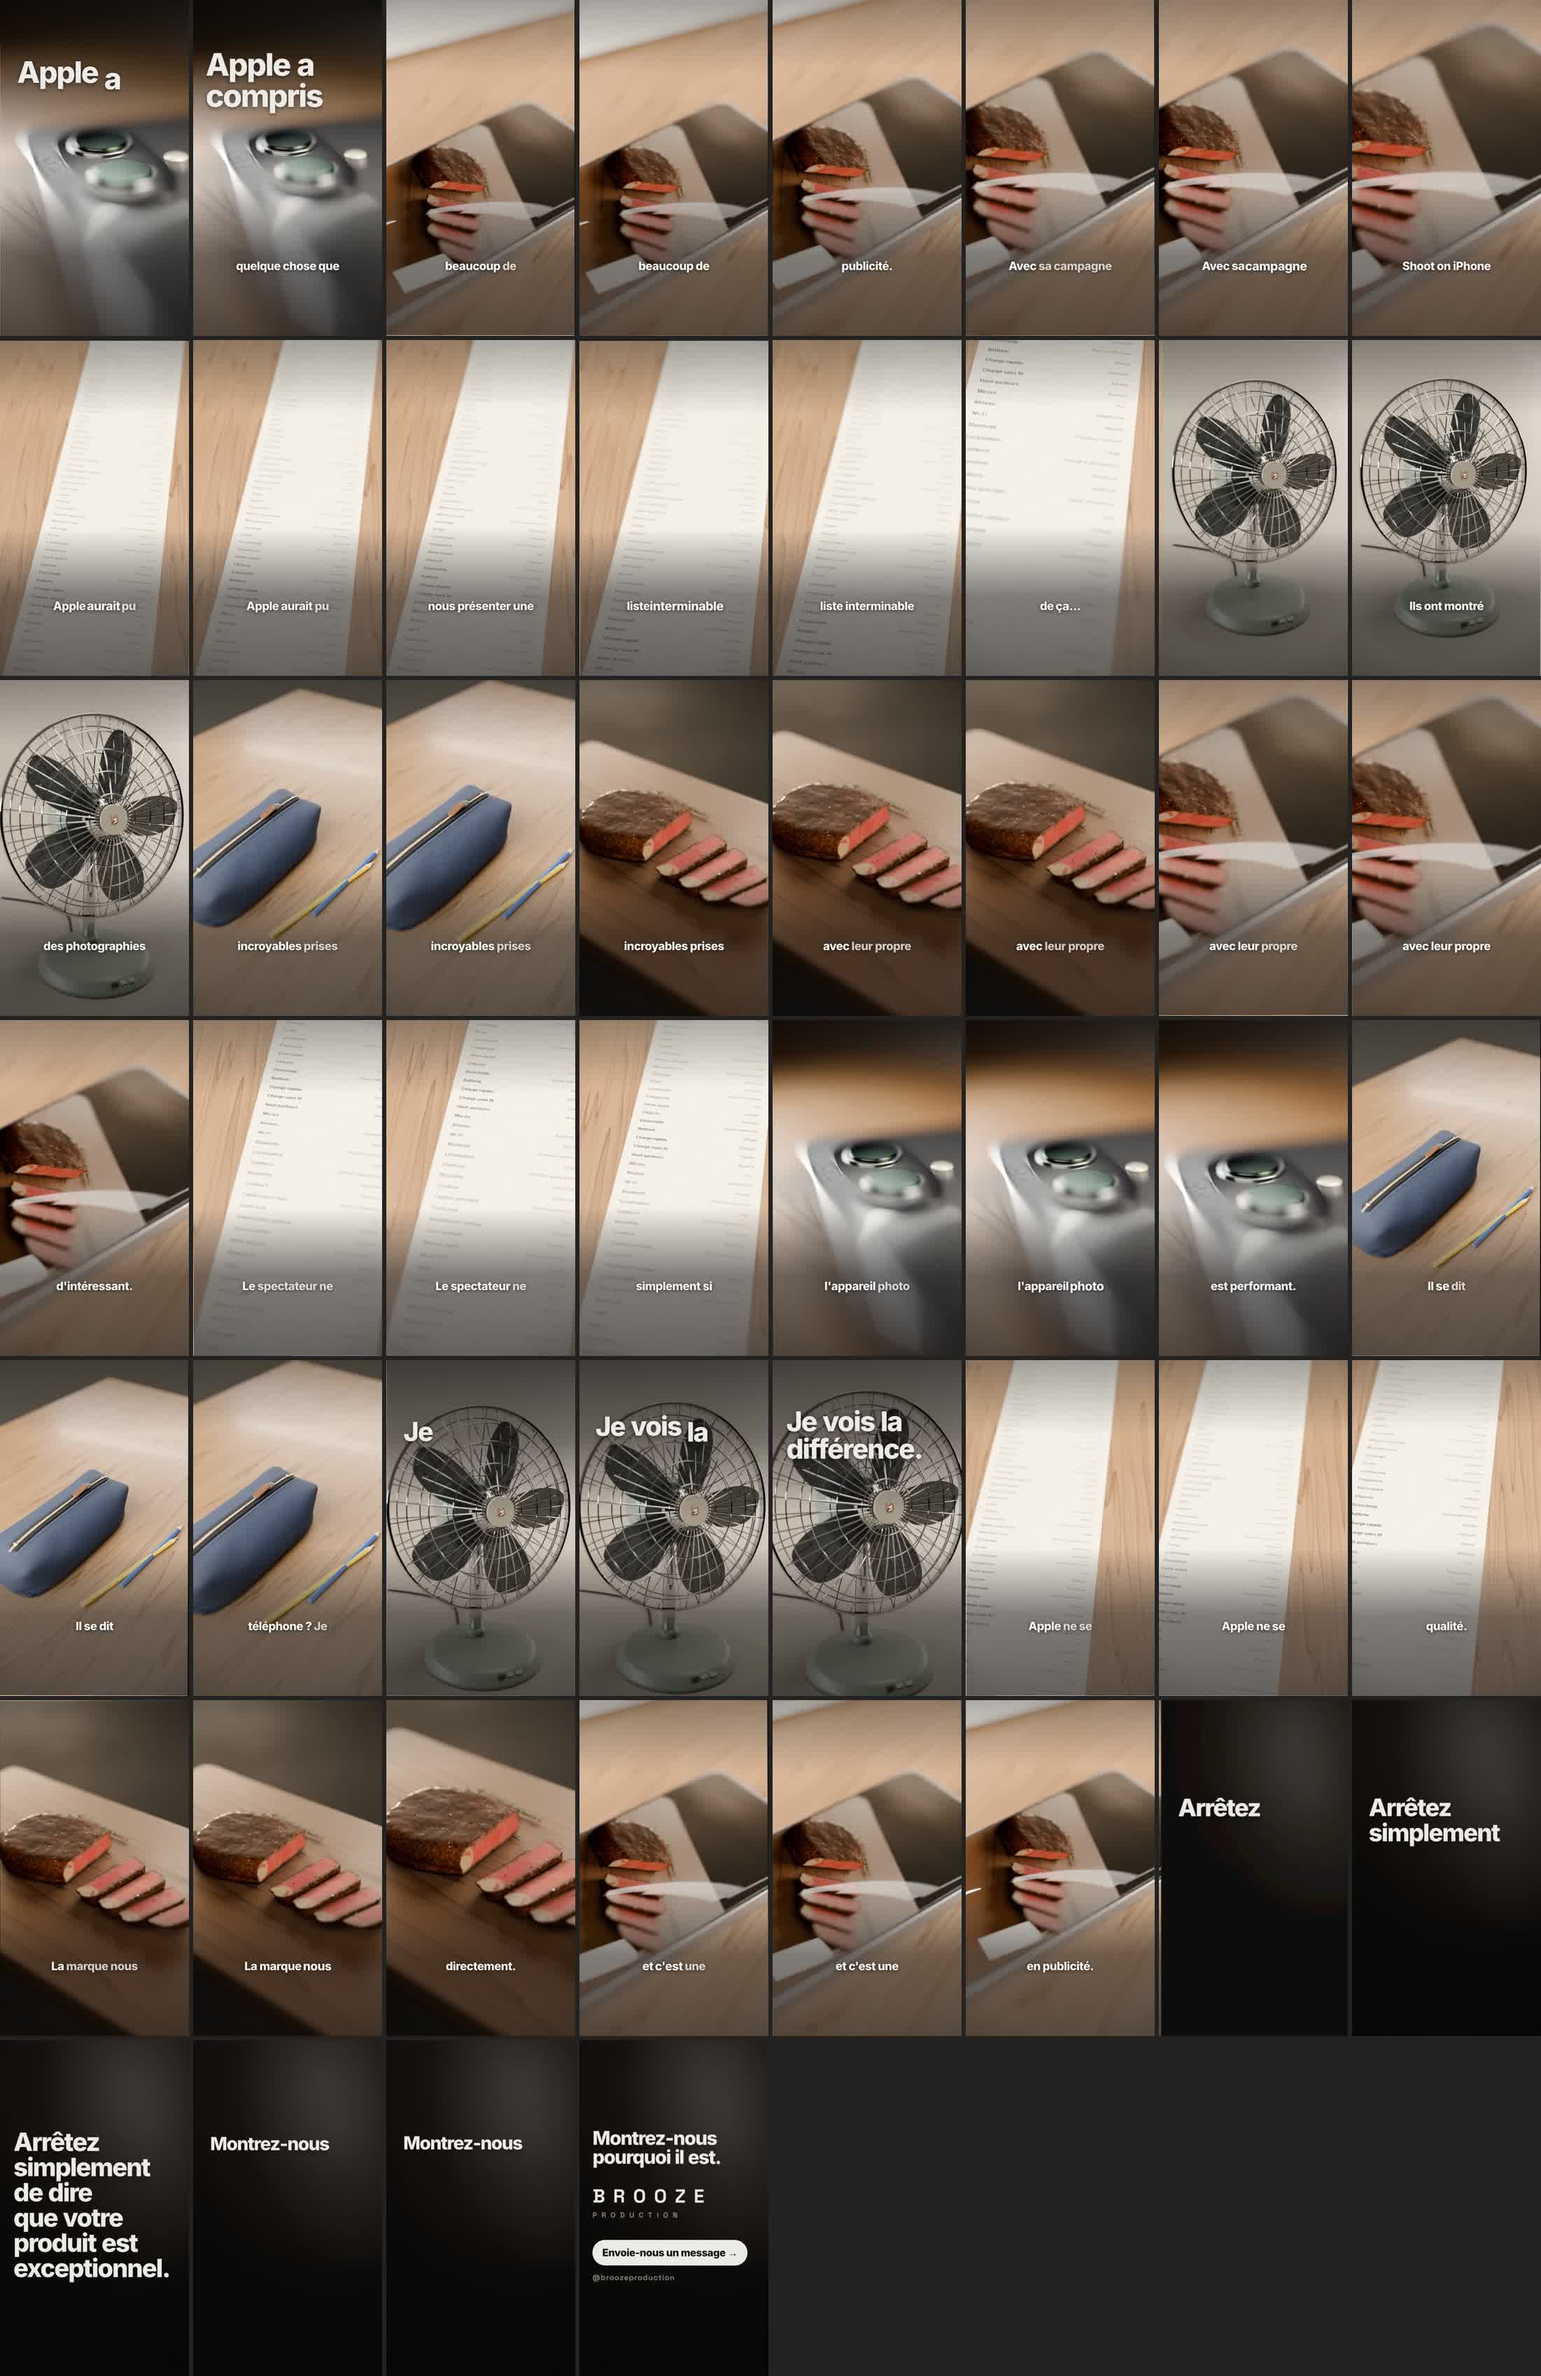
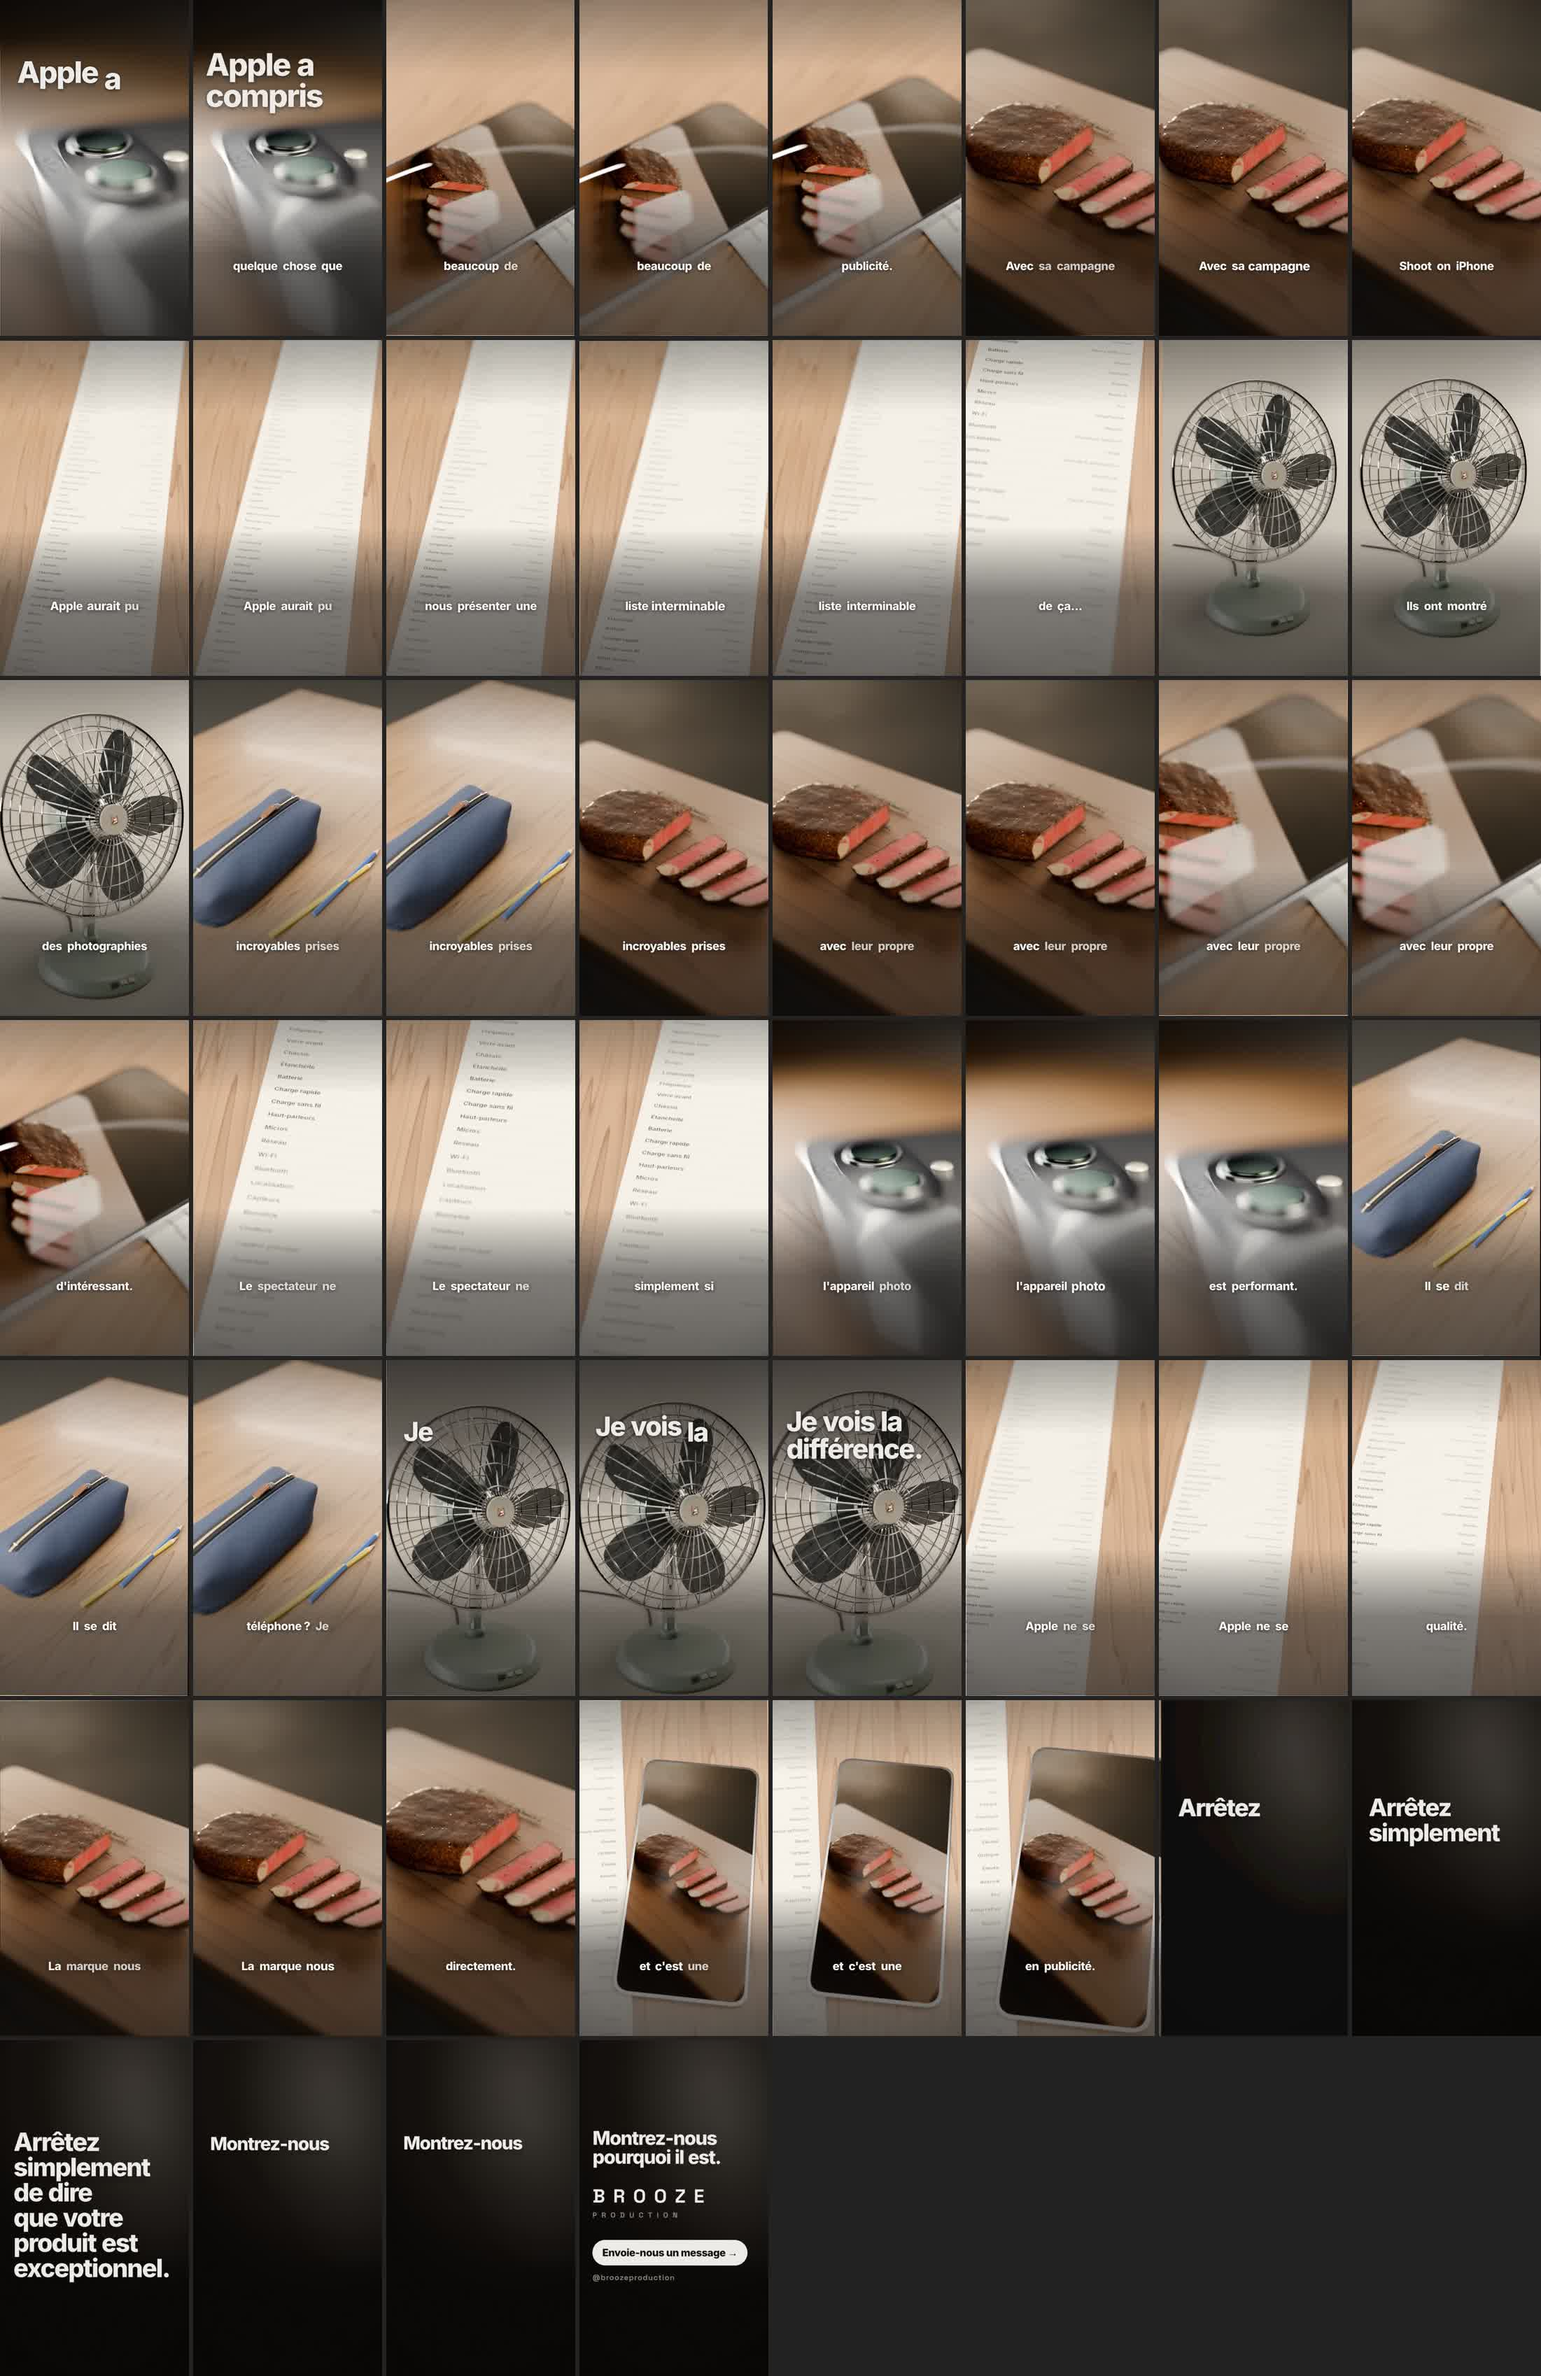
Reel Apple v2 : passes du sceptique, prêt à publier
Claude-Session: https://claude.ai/code/session_01AdSeFqikVTnEaH1LavGi44

diff --git a/sorties/2026-10-23-apple-montre-v2/sceptique_passe2.md b/sorties/2026-10-23-apple-montre-v2/sceptique_passe2.md
@@ -1,0 +1,21 @@
+# brooze-sceptique · Reel Apple v2 (montage en images réelles)
+
+## Passe 1 (v2a)
+- P2 · Répétition : l'écran du téléphone 5 s d'affilée (1,5–6,5 s, deux cadrages trop proches), revenu 3 fois ; la fiche
+  3 fois. « 6 images pour 41 s, ça tourne en rond. »
+- P2 · Lisibilité : « Je vois la différence » sur la grille du ventilateur ; sous-titres sur papier blanc.
+- P3 · Photo de l'écran à l'envers (raccord steak → écran affaibli), reflets de panneaux sur l'écran, 240 Mo.
+
+## Corrections
+Plan « dessus » ajouté (4e angle de la scène, 2 min 42) ; steak sur « Avec sa campagne » ; fiche en très gros plan à
+18,5 s ; haut d'image assombri sous les titres et bas renforcé sous les sous-titres ; photo d'écran retournée
+correctement (mire de test), téléphone tourné de 180°, verre antireflet ; débit plafonné à 14 Mb/s.
+
+## Passe 2 (v2b)
+- controle.py : 0 problème, 0 glitch, −14,0 LUFS, −1,1 dBTP, 69 Mo, 83 % d'images réelles, 3 gros textes, 1 type de
+  transition (whip) ; bande du whip 11,6 s : flou progressif, aucune saccade.
+- Tient : hook sur les objectifs, idée de monde (papier = dire, photo = montrer), raccord steak plein cadre → écran,
+  moment nerveux 12–15 s, sous-titres lisibles sans cartouche, caméra vivante partout.
+- Reste (P3) : la fiche occupe encore 5 s au début (6,5–11,6 s, deux cadrages distincts) ; le plan écran large
+  (1,5–4,5 s) est le moins beau (reflet du verre).
+**Prête à publier.**
